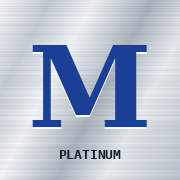
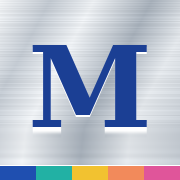
Old San Juan color: cobalt, aquamarine, lemon, flamboyán and rosa accents with facade band
Claude-Session: https://claude.ai/code/session_01VL9vLTpbXpapUkTT8Mdi4P

Changed region(s): [[0.0, 0.8333, 1.0, 1.0], [0.5833, 0.6944, 0.8333, 0.75], [0.1667, 0.6944, 0.3611, 0.75]]

diff --git a/index.html b/index.html
@@ -5,25 +5,28 @@
 /* "Brushed Platinum": the metal card is the hero, everything else is a calm concierge desk. */
 :root{
   --bg:#EBEEF2; --card:#FFFFFF; --surface-2:#F5F6F8; --line:#DDE1E7; --fg:#0D1B2E; --muted:#5A6576;
-  --accent:#1B3F94; --accent-2:#3BA7E0; --on-accent:#FFFFFF; --accent-soft:#E3EAF8;
-  --ok:#167A4E; --ok-soft:#DDF1E6; --hot:#B3261E; --hot-soft:#FBE3E0; --soon:#A85A12; --soon-soft:#FBEBD9;
+  --accent:#1F4FB0; --accent-2:#1FA89C; --on-accent:#FFFFFF; --accent-soft:#E2EAFB;
+  --ok:#13795A; --ok-soft:#DDF5EA; --hot:#C8371F; --hot-soft:#FDE4DC; --soon:#9A6100; --soon-soft:#FFF1C4;
+  --cobalto:#1F4FB0; --turquesa:#22B1A4; --limon:#F2C230; --flamboyan:#E2462B; --coral:#F28A5B; --rosa:#E0559A; --adoquin:#4A7590;
   --display:"Bodoni Moda",Didot,Georgia,serif; --body:"Manrope",system-ui,sans-serif; --mono:"Martian Mono",ui-monospace,Menlo,monospace;
   --r-lg:22px; --r-md:16px; --r-sm:11px; --ease:cubic-bezier(.2,.8,.2,1);
   --shadow:0 1px 2px rgba(13,27,46,.05),0 6px 20px rgba(13,27,46,.06);
 }
 @media (prefers-color-scheme:dark){:root:not([data-theme="light"]){
   --bg:#06080C; --card:#11151C; --surface-2:#171C25; --line:#242B36; --fg:#EDF0F5; --muted:#8D97A6;
-  --accent:#9DB6FF; --accent-2:#6CCBF2; --on-accent:#081430; --accent-soft:#18213A;
-  --ok:#62D29C; --ok-soft:#10291D; --hot:#FF8E80; --hot-soft:#3A1715; --soon:#F4AE66; --soon-soft:#33220F;
+  --accent:#8FB4FF; --accent-2:#5FE0D0; --on-accent:#081430; --accent-soft:#17223D;
+  --ok:#7FE0B5; --ok-soft:#0F2A20; --hot:#FF8A66; --hot-soft:#3A1810; --soon:#FFD25E; --soon-soft:#352A0C;
+  --adoquin:#7FA6BF;
   --shadow:none; color-scheme:dark}}
 :root[data-theme="dark"]{
   --bg:#06080C; --card:#11151C; --surface-2:#171C25; --line:#242B36; --fg:#EDF0F5; --muted:#8D97A6;
-  --accent:#9DB6FF; --accent-2:#6CCBF2; --on-accent:#081430; --accent-soft:#18213A;
-  --ok:#62D29C; --ok-soft:#10291D; --hot:#FF8E80; --hot-soft:#3A1715; --soon:#F4AE66; --soon-soft:#33220F;
+  --accent:#8FB4FF; --accent-2:#5FE0D0; --on-accent:#081430; --accent-soft:#17223D;
+  --ok:#7FE0B5; --ok-soft:#0F2A20; --hot:#FF8A66; --hot-soft:#3A1810; --soon:#FFD25E; --soon-soft:#352A0C;
+  --adoquin:#7FA6BF;
   --shadow:none; color-scheme:dark}
 *{box-sizing:border-box}
 html{background:var(--bg)}
-body{background:radial-gradient(130% 55% at 50% -12%,color-mix(in srgb,var(--accent) 13%,transparent),transparent 62%),var(--bg);background-repeat:no-repeat;color:var(--fg);font-family:var(--body);font-size:15px;line-height:1.45;-webkit-tap-highlight-color:transparent;min-height:100vh}
+body{background:radial-gradient(70% 40% at 0% -6%,color-mix(in srgb,var(--turquesa,#22B1A4) 16%,transparent),transparent 70%),radial-gradient(60% 34% at 100% -4%,color-mix(in srgb,var(--flamboyan,#E2462B) 10%,transparent),transparent 70%),radial-gradient(130% 55% at 50% -12%,color-mix(in srgb,var(--accent) 11%,transparent),transparent 62%),var(--bg);background-repeat:no-repeat;color:var(--fg);font-family:var(--body);font-size:15px;line-height:1.45;-webkit-tap-highlight-color:transparent;min-height:100vh}
 .app{max-width:520px;margin:0 auto;padding-left:max(16px,env(safe-area-inset-left,0px));padding-right:max(16px,env(safe-area-inset-right,0px));padding-block:18px calc(132px + env(safe-area-inset-bottom,0px));display:flex;flex-direction:column;gap:20px}
 h1,h2{margin:0;text-wrap:balance}
 h1{font-family:var(--display);font-weight:700;font-size:34px;line-height:1.05;letter-spacing:-.01em}
@@ -45,6 +48,7 @@ p{margin:0}
 .hero::after{content:"";position:absolute;inset:0;z-index:-1;pointer-events:none;background:linear-gradient(105deg,transparent 35%,rgba(255,255,255,.55) 47%,transparent 58%);transform:translateX(-70%)}
 @media (prefers-reduced-motion:no-preference){.hero::after{animation:sheen 7s var(--ease) 1.2s infinite}@keyframes sheen{0%,72%{transform:translateX(-70%)}100%{transform:translateX(70%)}}}
 .hero>*{position:relative}
+.hero::before{content:"";position:absolute;left:0;right:0;bottom:0;height:5px;z-index:0;pointer-events:none;background:linear-gradient(90deg,#1F4FB0 0 20%,#22B1A4 20% 40%,#F2C230 40% 60%,#F28A5B 60% 80%,#E0559A 80% 100%);box-shadow:0 -1px 0 rgba(255,255,255,.55)}
 .hero-top{display:flex;justify-content:space-between;align-items:center}
 .chip{width:44px;height:33px;border-radius:7px;background:linear-gradient(135deg,#ead49a,#b99652 52%,#ecd9a4);box-shadow:inset 0 0 0 1px rgba(90,70,30,.35),0 1px 0 rgba(255,255,255,.6);position:relative}
 .chip::before{content:"";position:absolute;inset:8px 0;border-top:1px solid rgba(90,70,30,.4);border-bottom:1px solid rgba(90,70,30,.4)}
@@ -62,11 +66,11 @@ p{margin:0}
 .ring{width:40px;height:40px;flex:none;transform:rotate(-90deg)}
 .ring circle{fill:none;stroke-width:5}
 .ring-track{stroke:rgba(20,32,46,.14)}
-.ring-fill{stroke:#1B3F94;stroke-linecap:round;transition:stroke-dasharray .6s var(--ease)}
+.ring-fill{stroke:url(#pbg);stroke-linecap:round;transition:stroke-dasharray .6s var(--ease)}
 .ring-fill[data-pct="0"]{stroke-opacity:0}
 .hero.paid{background:
     repeating-linear-gradient(0deg,rgba(255,255,255,.10) 0 1px,rgba(0,0,0,.03) 1px 2px,rgba(255,255,255,0) 2px 3px),
-    conic-gradient(from 210deg at 70% 30%,#e9f1ff,#f6e3f4,#e2f6ee,#fdf3d8,#e3ecff,#e9f1ff),
+    conic-gradient(from 210deg at 70% 30%,#d9e4ff,#fbd3e6,#ffdccc,#fff1b8,#c9f0e8,#d9e4ff),
     linear-gradient(118deg,#f3f5f7,#c3cad2 40%,#eef1f4)}
 .hero.paid .ring-fill{stroke:#167A4E}
 @media (prefers-reduced-motion:no-preference){.hero.celebrate{animation:cheer .9s var(--ease)}@keyframes cheer{30%{transform:perspective(900px) rotateY(-8deg) scale(1.02)}70%{transform:perspective(900px) rotateY(5deg)}}}
@@ -81,7 +85,7 @@ p{margin:0}
 .g-hot .group-head h2::before,.g-soon .group-head h2::before,.g-later .group-head h2::before,.g-done .group-head h2::before{content:"";width:9px;height:9px;flex:none}
 .g-hot .group-head h2::before{background:var(--hot);transform:rotate(45deg);border-radius:1px}
 .g-soon .group-head h2::before{background:var(--soon);border-radius:50%}
-.g-later .group-head h2::before{border:2px solid var(--muted);border-radius:50%;width:9px;height:9px}
+.g-later .group-head h2::before{background:var(--adoquin);border-radius:2px;transform:skewX(-12deg)}
 .g-done .group-head h2::before{background:var(--ok);border-radius:2px}
 .item{background:var(--card);border-radius:var(--r-md);overflow:hidden;box-shadow:var(--shadow)}
 .group>.item{border-radius:0;box-shadow:none;border-bottom:1px solid var(--line)}
@@ -151,11 +155,12 @@ textarea,.form input{width:100%;font:16px var(--body);padding:10px 12px;border:1
 .news-date{font:500 11px var(--mono);color:var(--muted)}
 .pill{font:700 9.5px var(--mono);letter-spacing:.1em;text-transform:uppercase;padding:4px 9px;border-radius:999px;background:var(--accent-soft);color:var(--accent)}
 .pill.ok{background:var(--ok-soft);color:var(--ok)}.pill.soon{background:var(--soon-soft);color:var(--soon)}.pill.hot{background:var(--hot-soft);color:var(--hot)}
-.pill.fresh{background:var(--accent-2);color:#06121F}
+.pill.fresh{background:var(--turquesa,#22B1A4);color:#04201D}
 .card{background:var(--card);border-radius:var(--r-md);padding:16px;display:flex;flex-direction:column;gap:8px;box-shadow:var(--shadow)}
 .card h2{font-size:19px}
 .card ul,.card ol{margin:0;padding-left:18px;font-size:14px;display:flex;flex-direction:column;gap:4px}
-.card.brief{background:linear-gradient(150deg,#13285E,#1B3F94 60%,#2A63B8);color:#F2F5FB;box-shadow:0 18px 36px -18px rgba(19,40,94,.7)}
+.card.brief{position:relative;overflow:hidden;background:linear-gradient(150deg,#0F2C6B,#1F4FB0 52%,#168C93);color:#F2F5FB;box-shadow:0 18px 36px -18px rgba(15,44,107,.7)}
+.card.brief::before{content:"";position:absolute;left:0;right:0;top:0;height:4px;background:linear-gradient(90deg,#1F4FB0 0 20%,#22B1A4 20% 40%,#F2C230 40% 60%,#F28A5B 60% 80%,#E0559A 80% 100%)}
 .card.brief .label{color:rgba(242,245,251,.7)}
 .card.brief h2{font-size:23px;line-height:1.15}
 .card.brief p{color:rgba(242,245,251,.9)}
@@ -173,7 +178,7 @@ textarea,.form input{width:100%;font:16px var(--body);padding:10px 12px;border:1
 .more[aria-expanded="true"]{color:var(--accent);background:var(--accent-soft)}
 .more[aria-expanded="true"] svg{transform:rotate(180deg)}
 .meter{height:8px;border-radius:4px;background:var(--line);overflow:hidden;margin-top:-6px}
-.meter i{display:block;height:100%;border-radius:4px;background:linear-gradient(90deg,var(--accent),var(--accent-2));transition:width .5s var(--ease)}
+.meter i{display:block;height:100%;border-radius:4px;background:linear-gradient(90deg,#1F4FB0,#22B1A4 55%,#F2C230);transition:width .5s var(--ease)}
 .empty{text-align:center;color:var(--muted);padding:24px 0}
 .save{font:500 11px var(--mono);color:var(--muted);text-align:center;letter-spacing:.04em}
 
@@ -189,7 +194,7 @@ textarea,.form input{width:100%;font:16px var(--body);padding:10px 12px;border:1
 button:focus-visible{outline:3px solid var(--accent);outline-offset:2px}
 
 /* ---- Coin that floats up when a credit is used ---- */
-.coin{position:fixed;z-index:60;pointer-events:none;font:700 13px var(--mono);color:#0D3A24;background:linear-gradient(135deg,#e6f6ec,#9fdcb8);padding:5px 10px;border-radius:999px;box-shadow:0 6px 16px -6px rgba(10,60,30,.5);transform:translate(-50%,0);animation:coin .95s var(--ease) forwards}
+.coin{position:fixed;z-index:60;pointer-events:none;font:700 13px var(--mono);color:#3D2600;background:linear-gradient(135deg,#FFE58A,#F2C230 55%,#F28A5B);padding:5px 10px;border-radius:999px;box-shadow:0 6px 16px -6px rgba(10,60,30,.5);transform:translate(-50%,0);animation:coin .95s var(--ease) forwards}
 @keyframes coin{0%{opacity:0;transform:translate(-50%,8px) scale(.8)}20%{opacity:1;transform:translate(-50%,-6px) scale(1.05)}100%{opacity:0;transform:translate(-50%,-56px) scale(1)}}
 </style>
 <script type="application/json" id="pstate">{"checks":{},"setup":{}}</script>
@@ -459,7 +464,7 @@ function render(){
       out+='<span class="label">Next deadline · '+fmtDate(endOf(next))+'</span><div class="hero-main"><div class="hero-days num">'+days(next)+'<small>days</small></div>'+
         '<div class="hero-what">'+(atRisk?money(atRisk)+' to use':'Use it')+'<span>'+same.map(function(c){return esc(c.name)}).join(', ')+'</span></div></div>';
     }else out+='<span class="label">All caught up</span><div class="hero-days">0<small>due</small></div>';
-    out+='<div class="payback"><svg class="ring" viewBox="0 0 44 44" aria-hidden="true"><circle class="ring-track" cx="22" cy="22" r="18"/><circle class="ring-fill" cx="22" cy="22" r="18" pathLength="100" data-pct="'+pct+'" style="stroke-dasharray:'+pct+' 100"/></svg><div><b class="num">'+money(cl)+'</b> back of <span class="num">'+money(CD.fee)+'</span> fee<span class="pb-sub">'+(cl>=CD.fee?'Paid for itself this year':pct+'% paid back in '+Y)+'</span></div></div></div>';
+    out+='<div class="payback"><svg class="ring" viewBox="0 0 44 44" aria-hidden="true"><defs><linearGradient id="pbg" x1="0" y1="0" x2="1" y2="1"><stop offset="0" stop-color="#1F4FB0"/><stop offset="1" stop-color="#1FA89C"/></linearGradient></defs><circle class="ring-track" cx="22" cy="22" r="18"/><circle class="ring-fill" cx="22" cy="22" r="18" pathLength="100" data-pct="'+pct+'" style="stroke-dasharray:'+pct+' 100"/></svg><div><b class="num">'+money(cl)+'</b> back of <span class="num">'+money(CD.fee)+'</span> fee<span class="pb-sub">'+(cl>=CD.fee?'Paid for itself this year':pct+'% paid back in '+Y)+'</span></div></div></div>';
     out+=updatedHTML();
     var week=pending.filter(function(c){return days(c)<=7}), month=pending.filter(function(c){return days(c)>7&&days(c)<=31}), later=pending.filter(function(c){return days(c)>31});
     out+=group('This week','7 days or less',week,'g-hot')+group('This month','by '+fmtDate(new Date(Y,M,now.getDate()+31)),month,'g-soon')+group('Later','',later,'g-later');
@@ -695,7 +700,7 @@ if(window.claude&&window.claude.use){
 <style id="ptourstyle">
 /* First-visit walkthrough. Shows once per browser, then never again. */
 .tour-back{position:fixed;inset:0;background:rgba(10,14,18,.55);z-index:50;display:flex;align-items:flex-end;justify-content:center;padding:0 16px calc(112px + env(safe-area-inset-bottom,0px))}
-.tour-card{background:var(--card);color:var(--fg);border-radius:18px;max-width:440px;width:100%;padding:20px 20px 16px;box-shadow:0 18px 40px rgba(0,0,0,.3);display:flex;flex-direction:column;gap:10px}
+.tour-card{position:relative;overflow:hidden;background:var(--card);color:var(--fg);border-radius:18px;max-width:440px;width:100%;padding:20px 20px 16px;box-shadow:0 18px 40px rgba(0,0,0,.3);display:flex;flex-direction:column;gap:10px}
 .tour-card.center{margin-bottom:auto;margin-top:auto}
 .tour-step{font-size:11px;letter-spacing:.11em;text-transform:uppercase;font-weight:700;color:var(--muted)}
 .tour-card h2{font-family:var(--display);font-weight:700;font-size:26px;margin:0;text-wrap:balance}
@@ -703,7 +708,8 @@ if(window.claude&&window.claude.use){
 .tour-card ul{margin:0;padding-left:18px;font-size:14px;display:flex;flex-direction:column;gap:4px}
 .tour-dots{display:flex;gap:6px}
 .tour-dots i{width:7px;height:7px;border-radius:50%;background:var(--line)}
-.tour-dots i.on{background:var(--accent)}
+.tour-dots i.on{background:var(--accent-2)}
+.tour-card::before{content:"";position:absolute;left:0;right:0;top:0;height:4px;background:linear-gradient(90deg,#1F4FB0 0 20%,#22B1A4 20% 40%,#F2C230 40% 60%,#F28A5B 60% 80%,#E0559A 80% 100%)}
 .tour-nav{display:flex;align-items:center;justify-content:space-between;gap:10px;margin-top:6px}
 .tour-skip{background:none;border:0;color:var(--muted);font:600 14px var(--body);min-height:44px;padding:0 4px;cursor:pointer}
 .tour-next{min-height:48px;padding:0 22px;border-radius:999px;border:0;background:var(--accent);color:var(--on-accent);font:700 15px var(--body);cursor:pointer}
